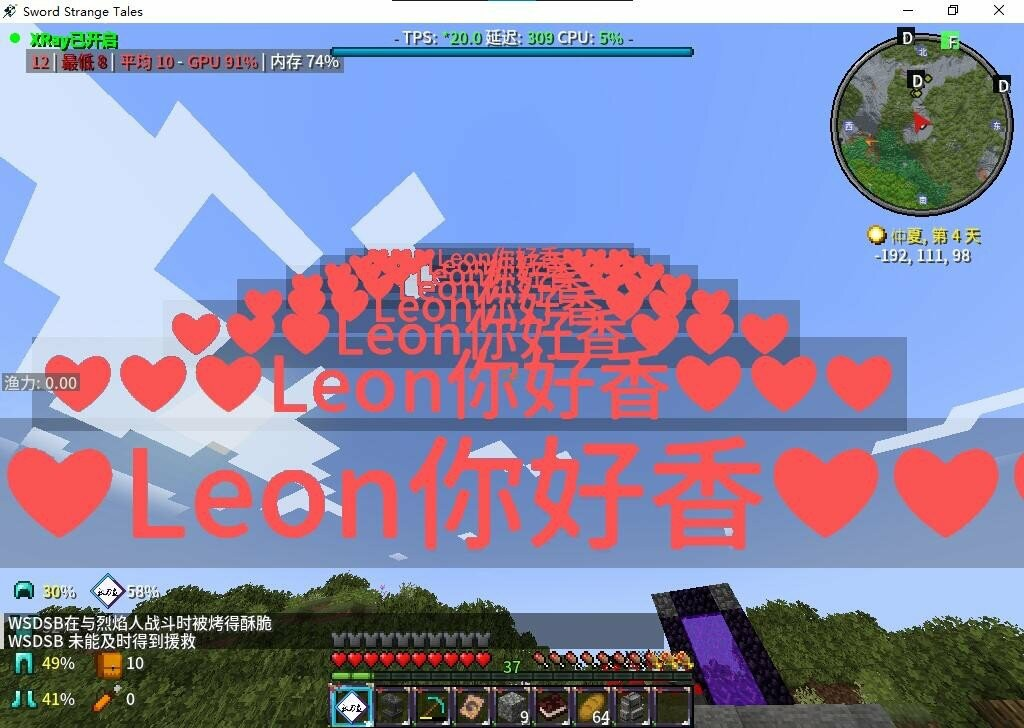
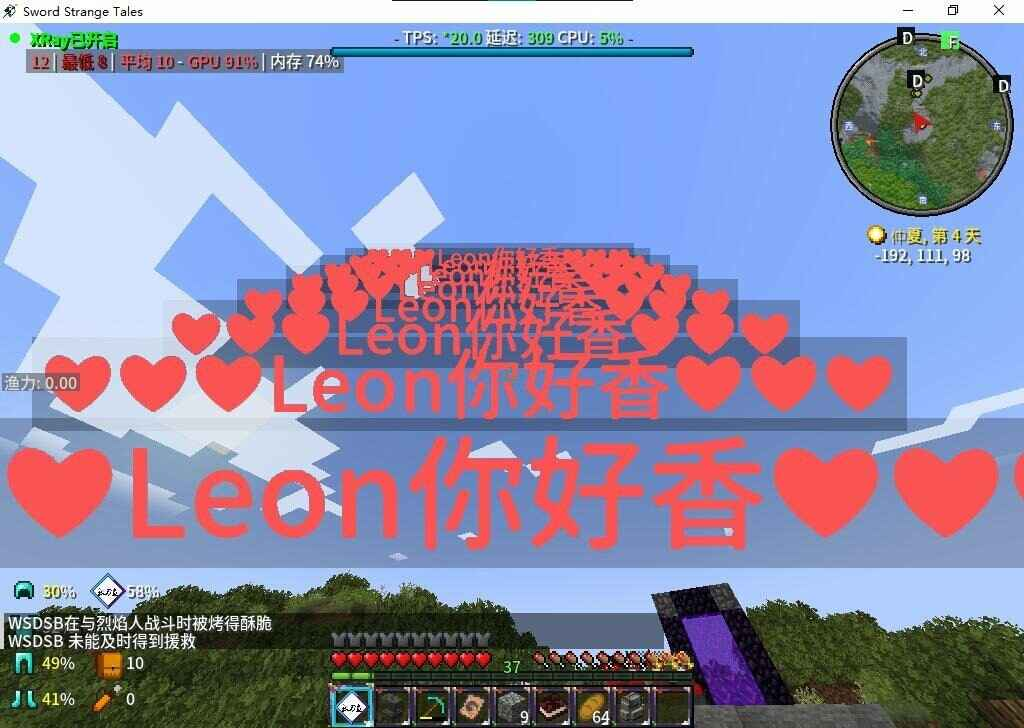
压缩网站内图片体积
在不过多影响画质的情况下压缩网站内图片体积，提升加载速度

diff --git a/index.html b/index.html
@@ -445,13 +445,12 @@
                             端口：19132
                         </p>
                         <p><span style="color: rgb(196, 0, 0);">◉</span> Java版只需要填地址，基岩版需要填写地址和端口</p>
-                        <!--<img src="https://api.mcstatus.io/v2/widget/java/vanilla.eqad.fun?dark=false" width="355" height="95" alt="服务器信息获取失败！"/>-->
                         <div class="server-status" data-server="vanilla.eqad.fun" data-port="25565"></div>
                     </div> <!-- end of text-container -->
                 </div> <!-- end of col -->
                 <div class="col-lg-7">
                     <div class="image-container">
-                        <img class="img-fluid" src="static/picture/vanilla.png" alt="创造世界">
+                        <img class="img-fluid" src="static/picture/vanilla.jpg" alt="创造世界">
                     </div> <!-- end of image-container -->
                     <div class="text-under-picture">
                         <p><center style="font-size: 1.2rem;">创造世界</center></p>
@@ -476,13 +475,12 @@
                             端口：29132
                         </p>
                         <p><span style="color: rgb(196, 0, 0);">◉</span> Java版只需要填地址，基岩版需要填写地址和端口</p>
-                        <!--<img src="https://api.mcstatus.io/v2/widget/java/games.eqad.fun?dark=false" width="355" height="95" alt="服务器信息获取失败！"/>-->
                         <div class="server-status" data-server="games.eqad.fun" data-port="25565"></div>
                     </div> <!-- end of text-container -->
                 </div> <!-- end of col -->
                 <div class="col-lg-7">
                     <div class="image-container">
-                        <img class="img-fluid" src="static/picture/minigames.png" alt="灾难之星">
+                        <img class="img-fluid" src="static/picture/minigames.jpg" alt="灾难之星">
                     </div> <!-- end of image-container -->
                     <div class="text-under-picture">
                         <p><center style="font-size: 1.2rem;">灾难之星</center></p>
@@ -509,13 +507,12 @@
                             主线地址：everfree.eqad.fun<br>
                             备用地址：everfree-1.eqad.fun
                         </p>
-                        <!--<img src="https://api.mcstatus.io/v2/widget/java/everfree.eqad.fun?dark=false" width="355" height="95" alt="服务器信息获取失败！"/>-->
                         <div class="server-status" data-server="everfree.eqad.fun" data-port="25565"></div>
                     </div> <!-- end of text-container -->
                 </div> <!-- end of col -->
                 <div class="col-lg-7">
                     <div class="image-container" >
-                        <img class="img-fluid" src="static/picture/mod.png" alt="科技 + 冒险">
+                        <img class="img-fluid" src="static/picture/mod.jpg" alt="科技 + 冒险">
                     </div> <!-- end of image-container -->
                     <div class="text-under-picture">
                         <p><center style="font-size: 1.2rem;">科技 + 冒险</center></p>
